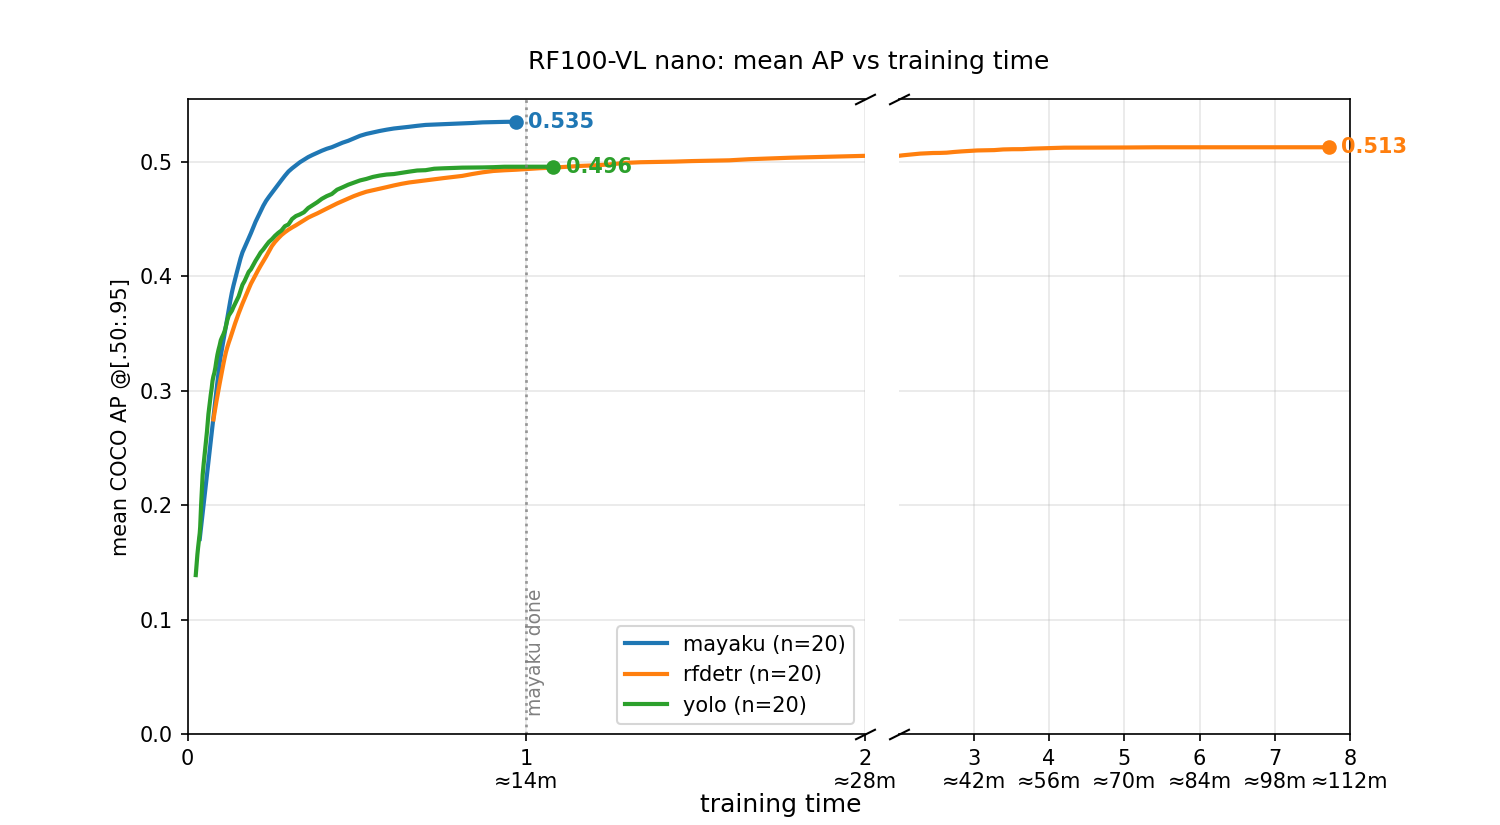
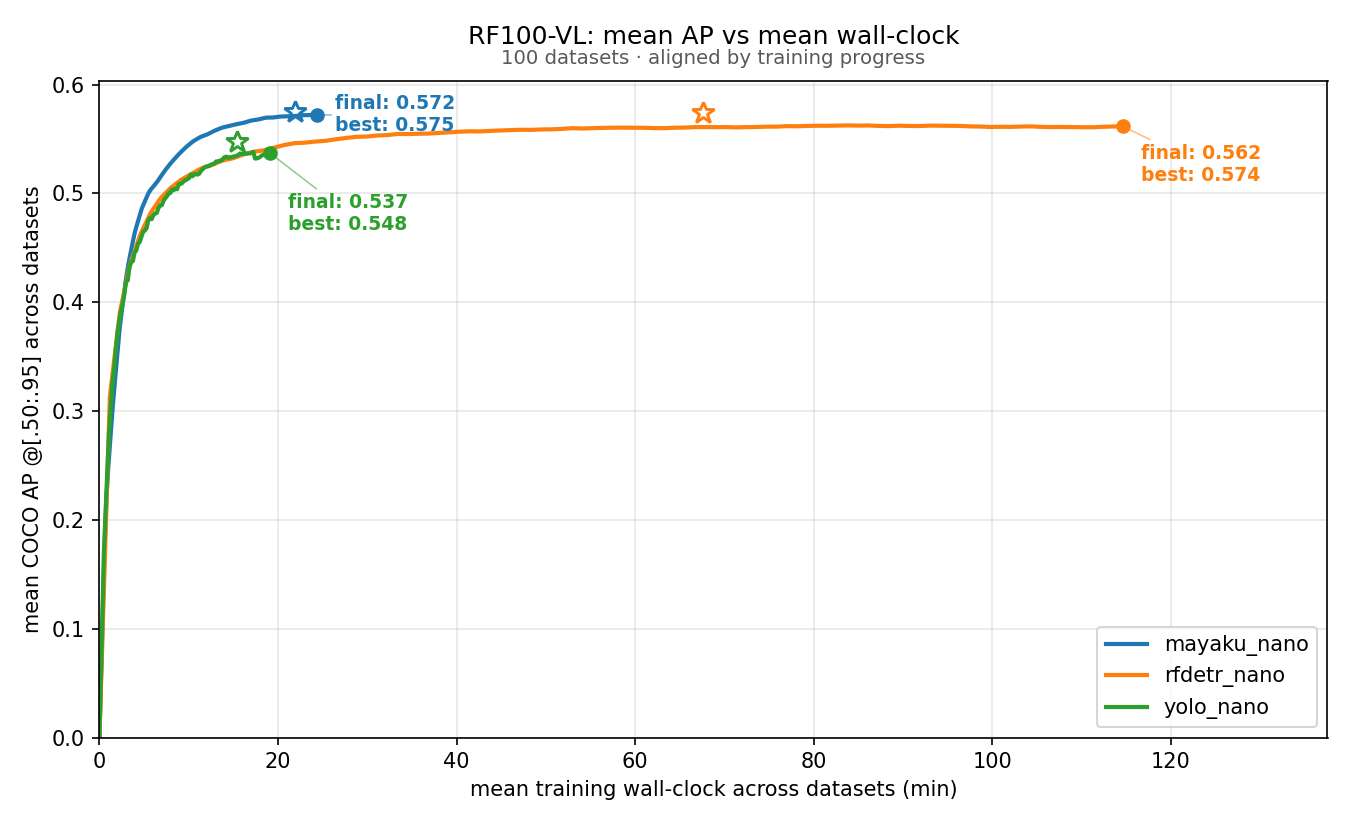
Refine RF100-VL section in README: clarify benchmarks, expand metrics, add visualizations for size-stratified AP.

Changed region(s): [[0.0, 0.0303, 0.9956, 1.0], [0.0311, 0.2121, 0.0622, 0.2424], [0.0311, 0.0909, 0.0622, 0.1212]]

diff --git a/README.md b/README.md
@@ -13,25 +13,33 @@ transfer to *your* classes quickly. Pure Python, zero custom CUDA kernels: one `
 Apple Silicon, ROCm, or CPU, and exports to ONNX, CoreML, OpenVINO, and TensorRT.
 Apache 2.0.
 
-![RF100-VL, nano class: mean AP vs training time, normalized to Mayaku's time per dataset](https://raw.githubusercontent.com/datamarkin/mayaku/main/curve_nano.png)
+![RF100-VL nano: mean COCO AP against mean training wall-clock, averaged over 100 datasets](https://raw.githubusercontent.com/datamarkin/mayaku/main/curve_nano.png)
 
-On [RF100-VL](https://rf100-vl.org/) — a 100-dataset benchmark of real, custom
-datasets — Mayaku's nano model reaches a higher mean AP than either comparison, and reaches
-it in shorter training time.
+On [RF100-VL](https://rf100-vl.org/) — 100 real, custom datasets, not another COCO split —
+Mayaku's nano model reaches the highest mean AP of the three, and gets to the others'
+accuracy in a fraction of their training time.
 
-| Library | Params (M) | Mean AP @[.50:.95] | Training time |
-|---|---:|---:|---:|
-| **mayaku-n** | **12.9** | **0.535** | **1.0× (≈14 min)** |
-| rfdetr-n | 30.5 | 0.513 | 7.7× (≈112 min) |
-| yolo26n | 2.4 | 0.496 | 1.05× |
+Every AP below is COCO **AP@[.50:.95]**, scored by pycocotools and averaged across datasets.
 
-> **Benchmark scope:** nano class only, the **alphabetically first 20 of the 100** RF100-VL
-> datasets, single RTX 3060. Each library runs its own default recipe to completion. Times
-> are normalized to Mayaku's per-dataset time; the wall-clock shown is the median dataset.
-> Parameter counts differ substantially across these models — they are listed so the
-> comparison is read with that in mind.
-> **The benchmark is still running** — the remaining datasets and the s/m/l tiers will be
-> published as they finish, whatever they show.
+| Library | Params (M) | AP final | AP best | AP<sub>S</sub> | AP<sub>M</sub> | AP<sub>L</sub> | Training time |
+|---|---:|---:|---:|---:|---:|---:|---:|
+| **mayaku-n** | **12.9** | **0.572** | **0.575** | **0.339** | **0.511** | 0.635 | 24.4 min |
+| rfdetr-n | 30.5 | 0.562 | 0.574 | 0.296 | 0.495 | **0.656** | 114.6 min |
+| yolo26n | 2.4 | 0.537 | 0.548 | 0.283 | 0.477 | 0.608 | **19.1 min** |
+
+**On speed, read the chart at equal accuracy.** YOLO26n is quickest to *finish* — and
+finishes lowest. Mayaku passes yolo26n's final AP after **9.0 minutes** of its own training,
+where yolo26n takes 19.1; it passes rfdetr-n's after **14.3 minutes**, where rfdetr-n takes
+almost 2 hours.
+
+![RF100-VL nano: mean COCO AP split by object size class](https://raw.githubusercontent.com/datamarkin/mayaku/main/apsize_nano_common.png)
+
+> **Benchmark scope:** nano tier, all **100** RF100-VL datasets, single RTX 3060. Each
+> library runs its own default recipe to completion. No tuned hyperparameters and every
+> checkpoint is scored by the same pycocotools evaluator on the same
+> val split, so the AP numbers are identical in definition across libraries.
+> **The s/m/l tiers are still training** and will be published as they finish, whatever they
+> show.
 
 > Built for developers with a few hundred images of *their own thing* — retail shelves,
 > defects on a line, insect wings — not another COCO leaderboard entry.
@@ -40,8 +48,9 @@ it in shorter training time.
 
 ## Highlights
 
-- **Fine-tunes fast.** Strong accuracy on small custom datasets in minutes of wall-clock. See the RF100-VL result above. `auto_config` adapts the recipe (schedule, LR,
-  augmentation) to your dataset size automatically.
+- **Fine-tunes fast.** Highest mean AP on RF100-VL's 100 custom datasets, reaching the
+  other libraries' accuracy in a fraction of their training time — see above. `auto_config`
+  adapts the recipe (schedule, LR, augmentation) to your dataset size automatically.
 - **Objects365-pretrained.** Base models are pretrained on a large, detection-native dataset
   (365 classes), a broad starting point for transfer.
 - **UniQuery head.** Anchor-free, NMS-free, with image-conditioned query generation (QGN)
@@ -198,7 +207,7 @@ recipe, and the fine-tuning defaults that make them converge quickly on small da
 
 ## Roadmap
 
-- **Full RF100-VL results** — all 100 datasets across every size tier.
+- **Full RF100-VL results** — the nano tier is complete above; s/m/l are training.
 - **Curated custom-class models** — ready-to-use weights on a hand-picked set of common
   real-world classes (people, vehicles, and more), for projects that don't want to start from
   the Objects365 base.
